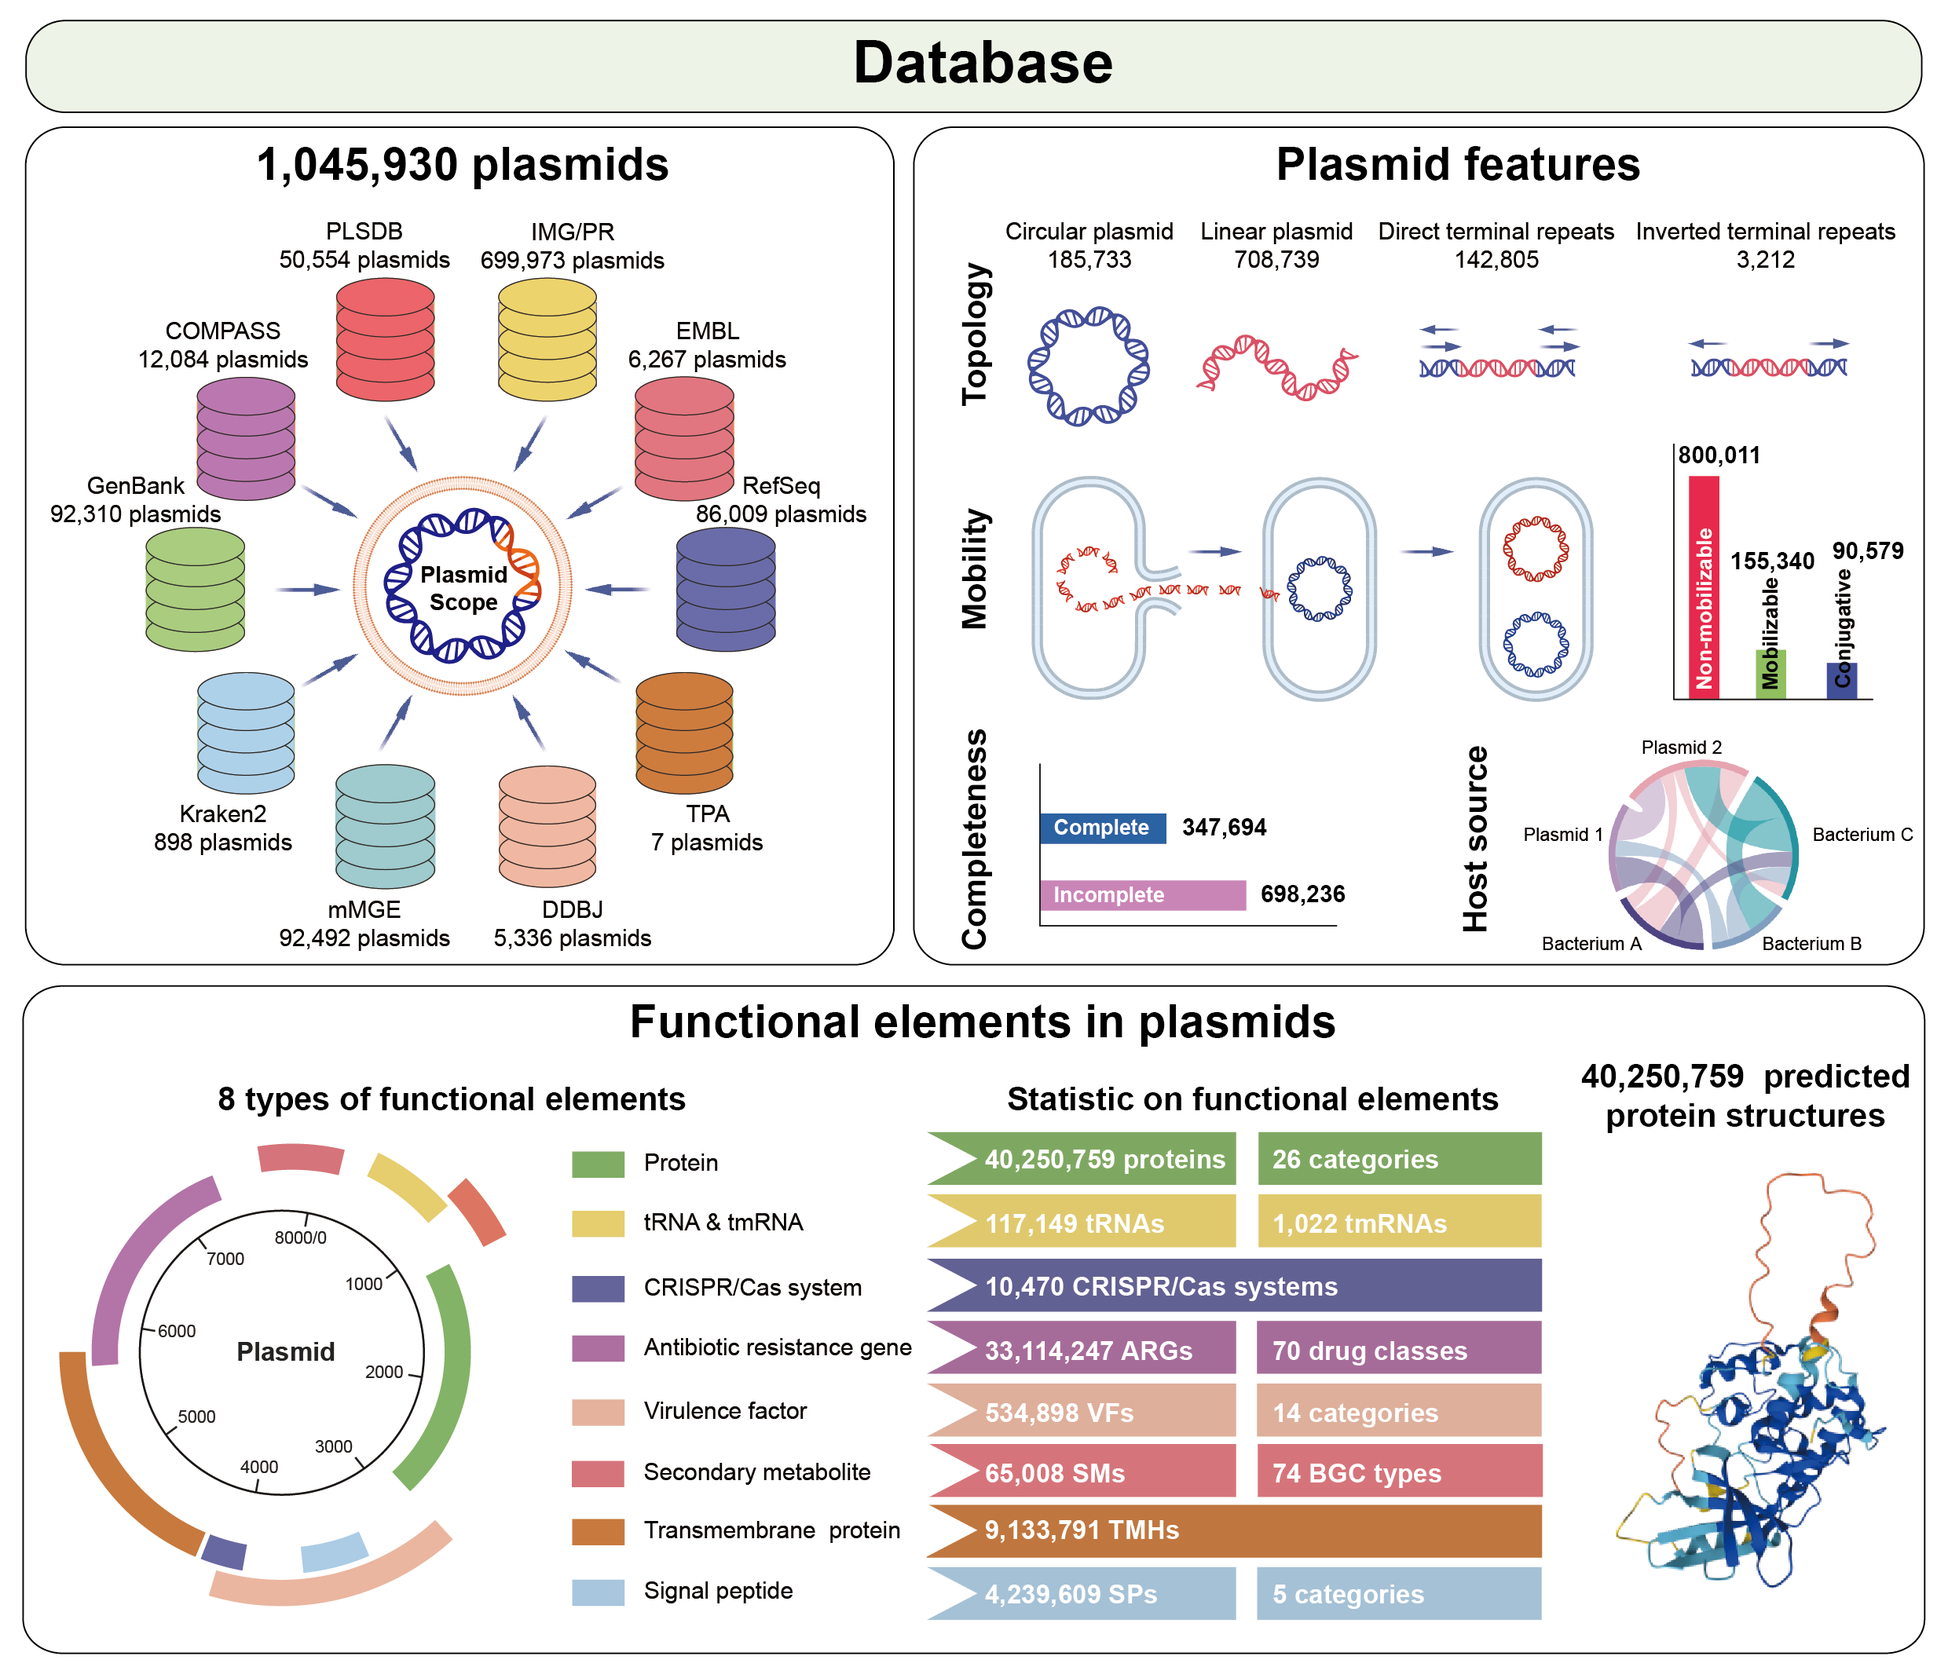
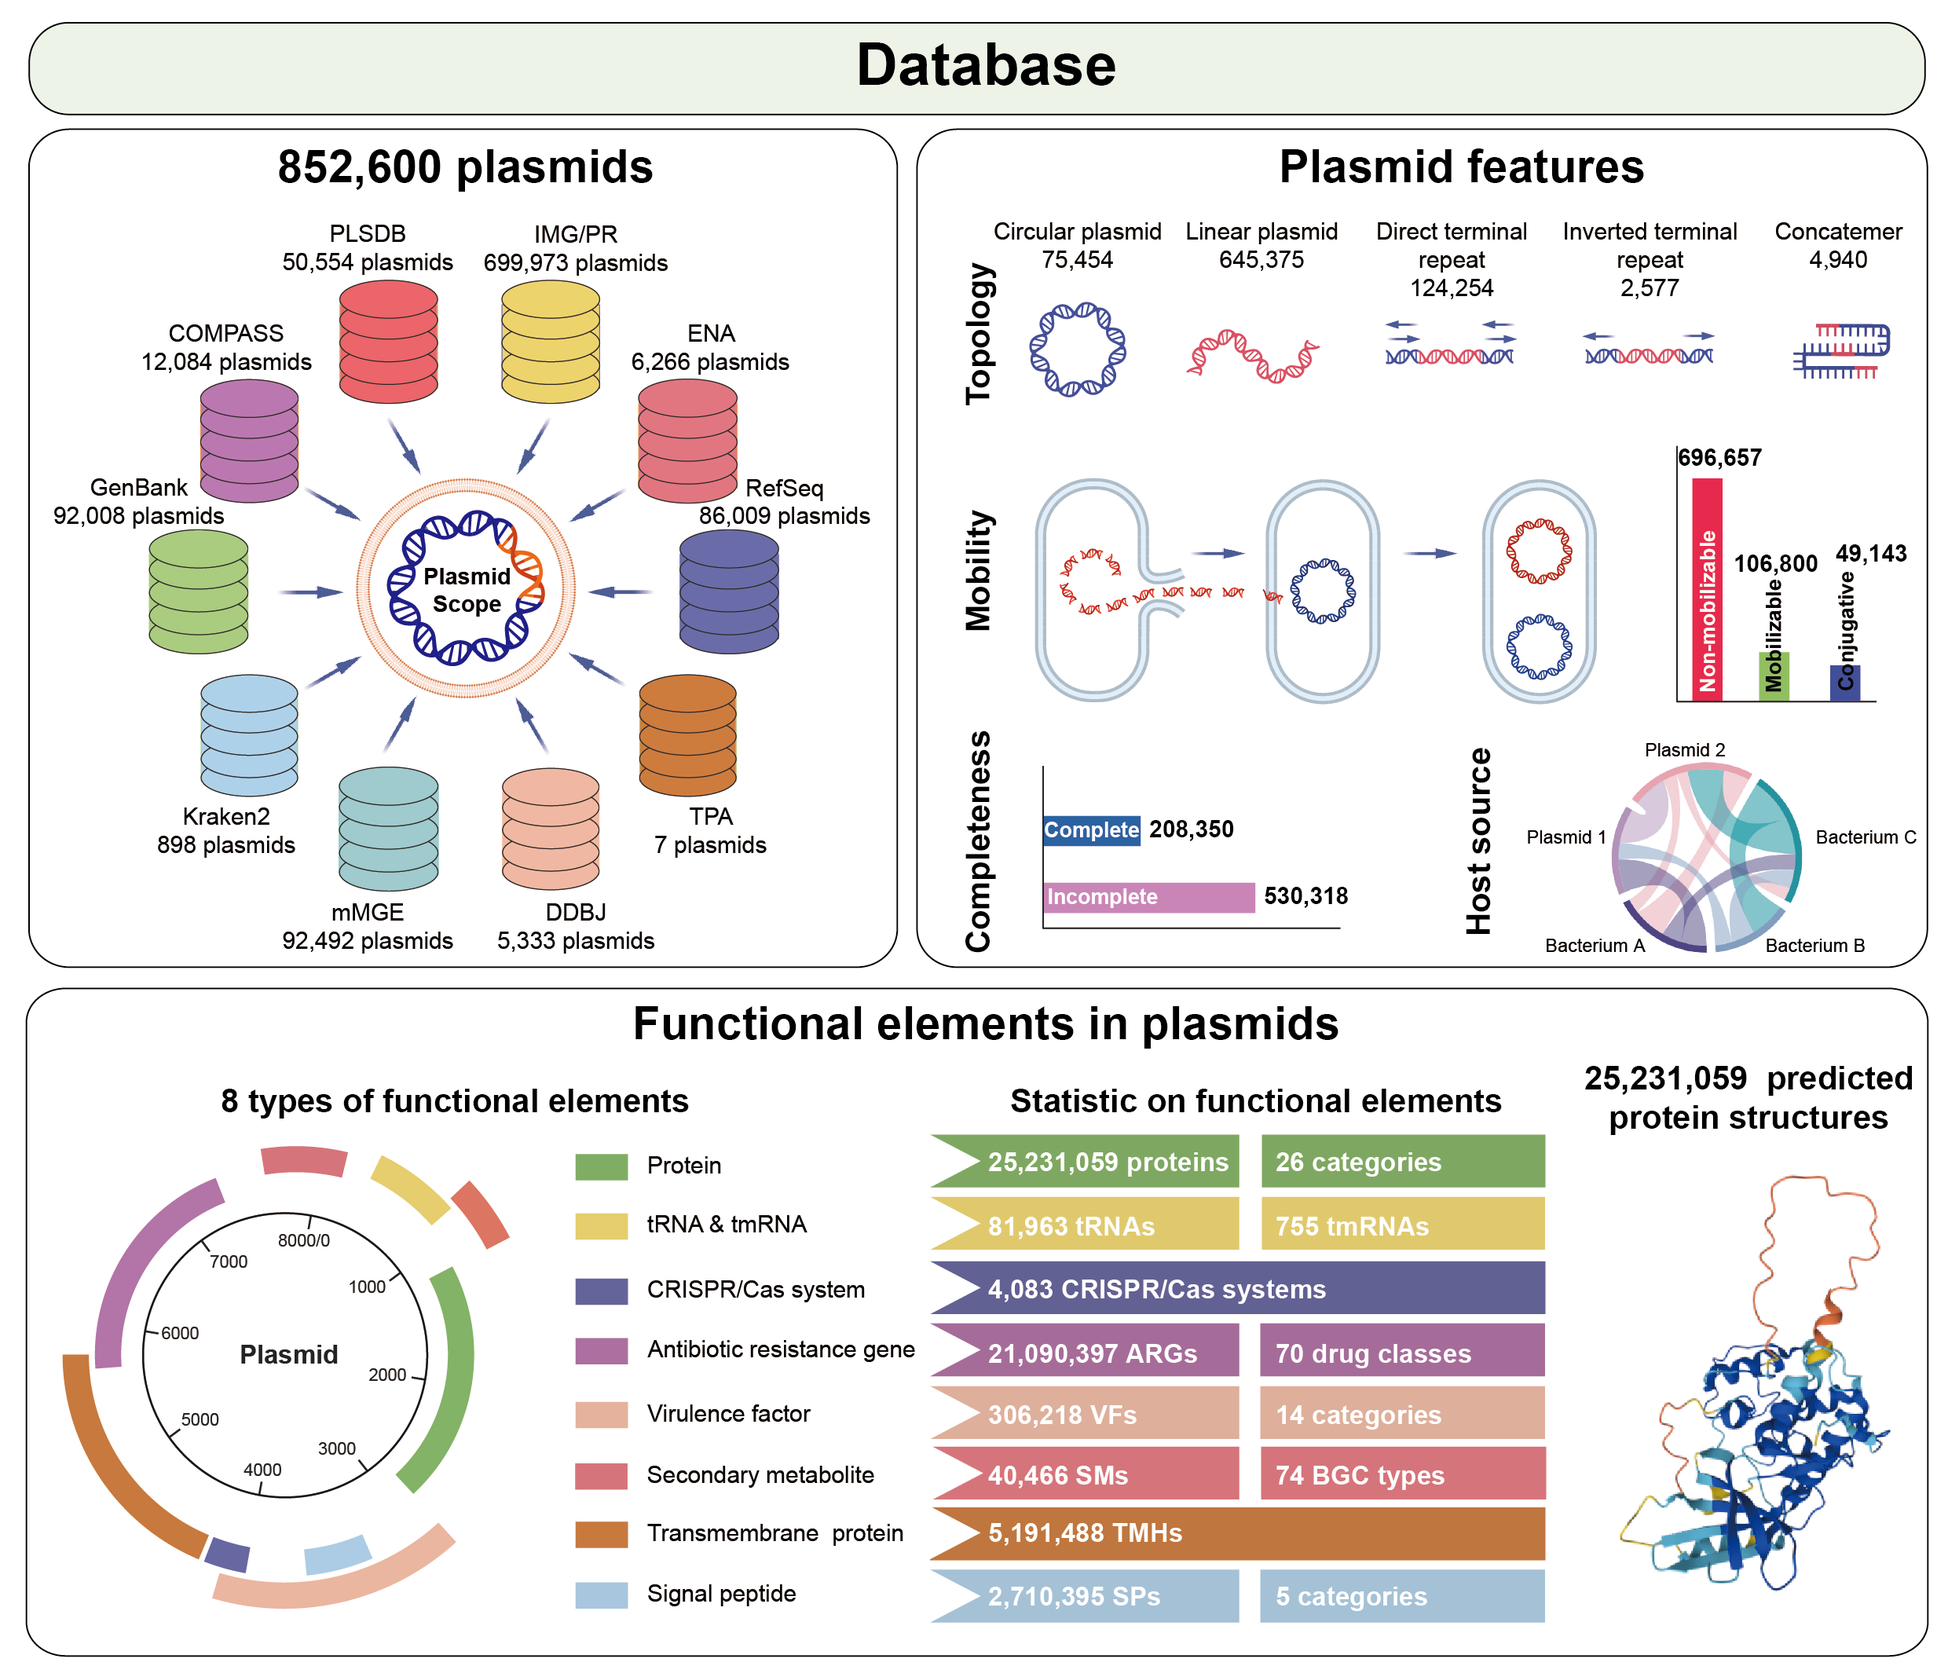
fix bug

diff --git a/src/pages/index.vue b/src/pages/index.vue
@@ -237,23 +237,27 @@
                         >
                             <div class="text-3xl font-600 mt-4 ml-8">NEWS</div>
                             <el-steps direction="vertical" class="h-70 ml-8 mt-5 mb-10">
-                                <!-- <el-step :icon="Opportunity" status="process">
+                                <el-step :icon="Opportunity" status="process">
                                     <template #title>
                                         <div class="text-gray-700 font-600">
-                                            Version 1.1 (2023.10.10)
+                                            Version 1.1 (2024.9.14)
                                         </div>
                                     </template>
                                     <template #description>
                                         <div :class="descriptionClass">
-                                            Five additional phage datasets are incorporated into the
-                                            database.
+                                            1. Add deduplicated and high-quality plasmids in "All"
+                                            table in the "Plasmid list" page.
                                             <br />
-                                            Update the genome comparison modules to provide the
+                                            2. Add pLDDT value for the predicted protein structures.
+                                            <br />
+                                            3. Update the genome comparison modules to provide the
                                             option to compare customized phage genomes with the
                                             PhageScope database.
+                                            <br />
+                                            4. Fix bugs: redirection, links, etc.
                                         </div>
                                     </template>
-                                </el-step> -->
+                                </el-step>
                                 <el-step :icon="Opportunity" status="process">
                                     <template #title>
                                         <div class="text-gray-700 font-600">
@@ -354,16 +358,16 @@ import admin from './admin.vue'
 const loading = ref(false)
 // eslint-disable-next-line camelcase
 const overview_data = ref({
-    plasmid: 1045930,
-    host: 14382,
-    protein: 40250759,
-    trna: 118171,
-    arg: 33114247,
-    sm: 65008,
-    sp: 4239609,
-    tmh: 9133791,
-    vf: 534898,
-    crispr: 10470,
+    plasmid: 852600,
+    host: 9572,
+    protein: 25231059,
+    trna: 82718,
+    arg: 21090397,
+    sm: 40466,
+    sp: 2710395,
+    tmh: 5191488,
+    vf: 306218,
+    crispr: 4083,
 })
 
 const dialogVisible = ref(false)

diff --git a/src/pages/download/index.vue b/src/pages/download/index.vue
@@ -580,7 +580,7 @@
                         <div
                             class="w-160 border-r-1 border-gray-700 h-13 flex-row flex pl-4 items-center text-[19px]"
                         >
-                            EMBL Protein FASTA File
+                            ENA Protein FASTA File
                         </div>
                         <div class="w-120 flex flex-row items-center justify-start">
                             <n-button class="ml-10 w-23 h-7 text-lg" text>
@@ -590,7 +590,7 @@
                                     </n-icon>
                                 </template>
                                 <a
-                                    href="https://plasmidapi.deepomics.org/fasta/phage_sequence/proteins/EMBL.tar.gz"
+                                    href="https://plasmidapi.deepomics.org/fasta/phage_sequence/proteins/ENA.tar.gz"
                                     target="_blank"
                                     class="btn"
                                 >
@@ -831,11 +831,11 @@ const datasetList = [
     'COMPASS',
     'GenBank',
     'RefSeq',
-    'EMBL',
+    'ENA',
     'Kraken2',
     'DDBJ',
     'TPA',
-    'mMGEs',
+    'mMGE',
 ]
 const datasetList2 = [
     'PLSDB',
@@ -843,11 +843,11 @@ const datasetList2 = [
     'COMPASS',
     'GenBank',
     'RefSeq',
-    'EMBL',
+    'ENA',
     'Kraken2',
     'DDBJ',
     'TPA',
-    'mMGEs',
+    'mMGE',
 ]
 const datasetList3 = [
     'PLSDB',
@@ -855,9 +855,9 @@ const datasetList3 = [
     'COMPASS',
     'GenBank',
     'RefSeq',
-    'EMBL',
+    'ENA',
     'Kraken2',
     'DDBJ',
-    'mMGEs',
+    'mMGE',
 ]
 </script>

diff --git a/src/pages/database/plasmid/index.vue b/src/pages/database/plasmid/index.vue
@@ -86,11 +86,11 @@
                 <el-menu-item index="2" class="text-lg">COMPASS</el-menu-item>
                 <el-menu-item index="3" class="text-lg">GenBank</el-menu-item>
                 <el-menu-item index="4" class="text-lg">RefSeq</el-menu-item>
-                <el-menu-item index="5" class="text-lg">EMBL</el-menu-item>
+                <el-menu-item index="5" class="text-lg">ENA</el-menu-item>
                 <el-menu-item index="6" class="text-lg">Kraken2</el-menu-item>
                 <el-menu-item index="7" class="text-lg">DDBJ</el-menu-item>
                 <el-menu-item index="8" class="text-lg">TPA</el-menu-item>
-                <el-menu-item index="9" class="text-lg">mMGEs</el-menu-item>
+                <el-menu-item index="9" class="text-lg">mMGE</el-menu-item>
             </el-menu>
             <div class="flex flex-row mt-7 text-[16px] font-400">
                 <div># Plasmid Sequences</div>
@@ -466,6 +466,7 @@ const filtersearch = async () => {
             page: pagevalue.value,
             pagesize: pageSize.value,
             search: searchinput.value,
+            source: source.value,
         },
     })
     seqnum.value = response.data.count

diff --git a/src/pages/database/filter/result.vue b/src/pages/database/filter/result.vue
@@ -55,11 +55,11 @@
                 <el-menu-item index="2" class="text-lg">COMPASS</el-menu-item>
                 <el-menu-item index="3" class="text-lg">GenBank</el-menu-item>
                 <el-menu-item index="4" class="text-lg">RefSeq</el-menu-item>
-                <el-menu-item index="5" class="text-lg">EMBL</el-menu-item>
+                <el-menu-item index="5" class="text-lg">ENA</el-menu-item>
                 <el-menu-item index="6" class="text-lg">Kraken2</el-menu-item>
                 <el-menu-item index="7" class="text-lg">DDBJ</el-menu-item>
                 <el-menu-item index="8" class="text-lg">TPA</el-menu-item>
-                <el-menu-item index="9" class="text-lg">mMGEs</el-menu-item>
+                <el-menu-item index="9" class="text-lg">mMGE</el-menu-item>
             </el-menu>
         </div>
         <div v-loading="loading" class="h-420">

diff --git a/src/pages/database/function/antimicrobial_resistance.vue b/src/pages/database/function/antimicrobial_resistance.vue
@@ -37,11 +37,11 @@
                 <el-menu-item index="2" class="text-lg">COMPASS</el-menu-item>
                 <el-menu-item index="3" class="text-lg">GenBank</el-menu-item>
                 <el-menu-item index="4" class="text-lg">RefSeq</el-menu-item>
-                <el-menu-item index="5" class="text-lg">EMBL</el-menu-item>
+                <el-menu-item index="5" class="text-lg">ENA</el-menu-item>
                 <el-menu-item index="6" class="text-lg">Kraken2</el-menu-item>
                 <el-menu-item index="7" class="text-lg">DDBJ</el-menu-item>
                 <el-menu-item index="8" class="text-lg">TPA</el-menu-item>
-                <el-menu-item index="9" class="text-lg">mMGEs</el-menu-item>
+                <el-menu-item index="9" class="text-lg">mMGE</el-menu-item>
             </el-menu>
         </div>
         <div v-loading="loading" class="h-420">

diff --git a/src/pages/database/function/crispr.vue b/src/pages/database/function/crispr.vue
@@ -26,11 +26,11 @@
                 <el-menu-item index="2" class="text-lg">COMPASS</el-menu-item>
                 <el-menu-item index="3" class="text-lg">GenBank</el-menu-item>
                 <el-menu-item index="4" class="text-lg">RefSeq</el-menu-item>
-                <el-menu-item index="5" class="text-lg">EMBL</el-menu-item>
+                <el-menu-item index="5" class="text-lg">ENA</el-menu-item>
                 <el-menu-item index="6" class="text-lg">Kraken2</el-menu-item>
                 <el-menu-item index="7" class="text-lg">DDBJ</el-menu-item>
                 <el-menu-item index="8" class="text-lg">TPA</el-menu-item>
-                <el-menu-item index="9" class="text-lg">mMGEs</el-menu-item>
+                <el-menu-item index="9" class="text-lg">mMGE</el-menu-item>
             </el-menu>
         </div>
         <div v-loading="loading" class="h-420">

diff --git a/src/pages/database/function/sm.vue b/src/pages/database/function/sm.vue
@@ -37,11 +37,11 @@
                 <el-menu-item index="2" class="text-lg">COMPASS</el-menu-item>
                 <el-menu-item index="3" class="text-lg">GenBank</el-menu-item>
                 <el-menu-item index="4" class="text-lg">RefSeq</el-menu-item>
-                <el-menu-item index="5" class="text-lg">EMBL</el-menu-item>
+                <el-menu-item index="5" class="text-lg">ENA</el-menu-item>
                 <el-menu-item index="6" class="text-lg">Kraken2</el-menu-item>
                 <el-menu-item index="7" class="text-lg">DDBJ</el-menu-item>
                 <el-menu-item index="8" class="text-lg">TPA</el-menu-item>
-                <el-menu-item index="9" class="text-lg">mMGEs</el-menu-item>
+                <el-menu-item index="9" class="text-lg">mMGE</el-menu-item>
             </el-menu>
         </div>
         <div v-loading="loading" class="h-420">

diff --git a/src/pages/database/function/sp.vue b/src/pages/database/function/sp.vue
@@ -37,11 +37,11 @@
                 <el-menu-item index="2" class="text-lg">COMPASS</el-menu-item>
                 <el-menu-item index="3" class="text-lg">GenBank</el-menu-item>
                 <el-menu-item index="4" class="text-lg">RefSeq</el-menu-item>
-                <el-menu-item index="5" class="text-lg">EMBL</el-menu-item>
+                <el-menu-item index="5" class="text-lg">ENA</el-menu-item>
                 <el-menu-item index="6" class="text-lg">Kraken2</el-menu-item>
                 <el-menu-item index="7" class="text-lg">DDBJ</el-menu-item>
                 <el-menu-item index="8" class="text-lg">TPA</el-menu-item>
-                <el-menu-item index="9" class="text-lg">mMGEs</el-menu-item>
+                <el-menu-item index="9" class="text-lg">mMGE</el-menu-item>
             </el-menu>
         </div>
         <div v-loading="loading" class="h-420">

diff --git a/src/pages/database/function/transmembrane.vue b/src/pages/database/function/transmembrane.vue
@@ -37,11 +37,11 @@
                 <el-menu-item index="2" class="text-lg">COMPASS</el-menu-item>
                 <el-menu-item index="3" class="text-lg">GenBank</el-menu-item>
                 <el-menu-item index="4" class="text-lg">RefSeq</el-menu-item>
-                <el-menu-item index="5" class="text-lg">EMBL</el-menu-item>
+                <el-menu-item index="5" class="text-lg">ENA</el-menu-item>
                 <el-menu-item index="6" class="text-lg">Kraken2</el-menu-item>
                 <el-menu-item index="7" class="text-lg">DDBJ</el-menu-item>
                 <el-menu-item index="8" class="text-lg">TPA</el-menu-item>
-                <el-menu-item index="9" class="text-lg">mMGEs</el-menu-item>
+                <el-menu-item index="9" class="text-lg">mMGE</el-menu-item>
             </el-menu>
         </div>
         <div v-loading="loading" class="h-420">

diff --git a/src/pages/database/function/trna.vue b/src/pages/database/function/trna.vue
@@ -26,11 +26,11 @@
                 <el-menu-item index="2" class="text-lg">COMPASS</el-menu-item>
                 <el-menu-item index="3" class="text-lg">GenBank</el-menu-item>
                 <el-menu-item index="4" class="text-lg">RefSeq</el-menu-item>
-                <el-menu-item index="5" class="text-lg">EMBL</el-menu-item>
+                <el-menu-item index="5" class="text-lg">ENA</el-menu-item>
                 <el-menu-item index="6" class="text-lg">Kraken2</el-menu-item>
                 <el-menu-item index="7" class="text-lg">DDBJ</el-menu-item>
                 <el-menu-item index="8" class="text-lg">TPA</el-menu-item>
-                <el-menu-item index="9" class="text-lg">mMGEs</el-menu-item>
+                <el-menu-item index="9" class="text-lg">mMGE</el-menu-item>
             </el-menu>
         </div>
         <div v-loading="loading" class="h-420">

diff --git a/src/pages/database/function/virulent.vue b/src/pages/database/function/virulent.vue
@@ -37,11 +37,11 @@
                 <el-menu-item index="2" class="text-lg">COMPASS</el-menu-item>
                 <el-menu-item index="3" class="text-lg">GenBank</el-menu-item>
                 <el-menu-item index="4" class="text-lg">RefSeq</el-menu-item>
-                <el-menu-item index="5" class="text-lg">EMBL</el-menu-item>
+                <el-menu-item index="5" class="text-lg">ENA</el-menu-item>
                 <el-menu-item index="6" class="text-lg">Kraken2</el-menu-item>
                 <el-menu-item index="7" class="text-lg">DDBJ</el-menu-item>
                 <el-menu-item index="8" class="text-lg">TPA</el-menu-item>
-                <el-menu-item index="9" class="text-lg">mMGEs</el-menu-item>
+                <el-menu-item index="9" class="text-lg">mMGE</el-menu-item>
             </el-menu>
         </div>
         <div v-loading="loading" class="h-420">

diff --git a/src/pages/database/protein/index.vue b/src/pages/database/protein/index.vue
@@ -49,11 +49,11 @@
                 <el-menu-item index="2" class="text-lg">COMPASS</el-menu-item>
                 <el-menu-item index="3" class="text-lg">GenBank</el-menu-item>
                 <el-menu-item index="4" class="text-lg">RefSeq</el-menu-item>
-                <el-menu-item index="5" class="text-lg">EMBL</el-menu-item>
+                <el-menu-item index="5" class="text-lg">ENA</el-menu-item>
                 <el-menu-item index="6" class="text-lg">Kraken2</el-menu-item>
                 <el-menu-item index="7" class="text-lg">DDBJ</el-menu-item>
                 <el-menu-item index="8" class="text-lg">TPA</el-menu-item>
-                <el-menu-item index="9" class="text-lg">mMGEs</el-menu-item>
+                <el-menu-item index="9" class="text-lg">mMGE</el-menu-item>
             </el-menu>
         </div>
         <div v-loading="loading" class="h-420">
